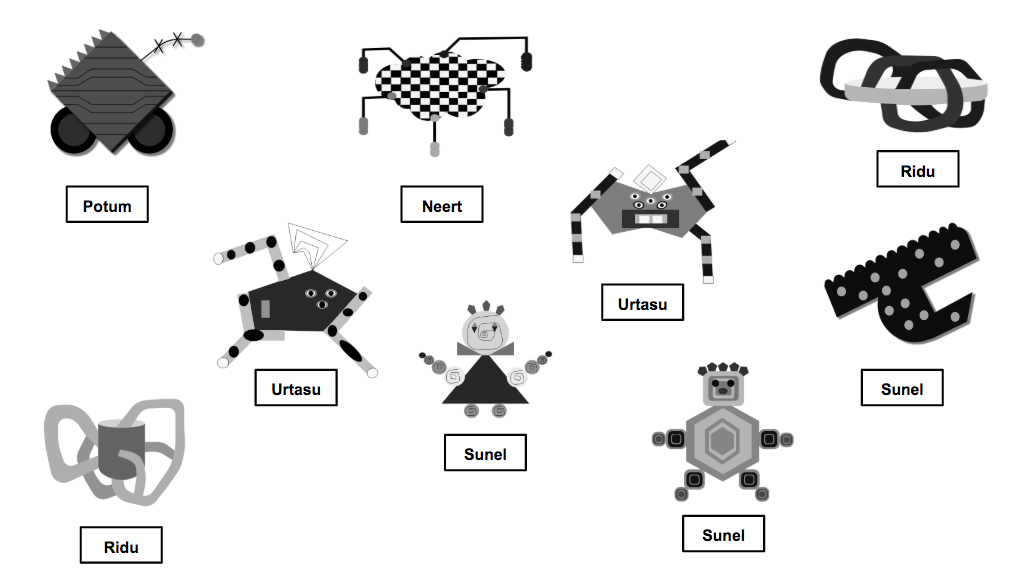
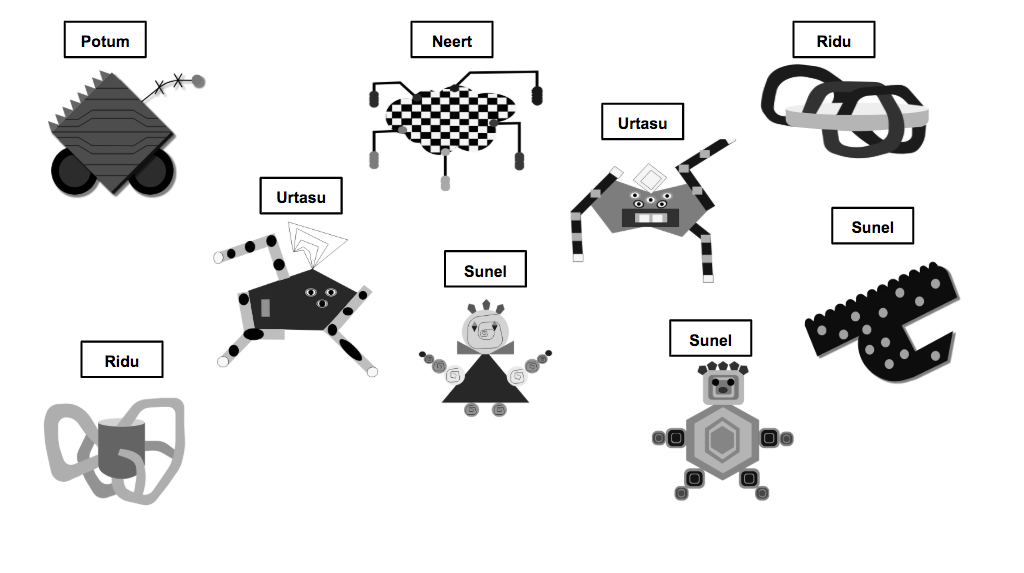
Add files via upload

diff --git a/tax-con.html b/tax-con.html
@@ -46,7 +46,7 @@
     /* Pre-Instructions */
     var instructions = {
       type: "html-keyboard-response",
-      stimulus: "Welcome! You are on a mission to an alien planet and must acquaint yourself with the things you might encounter there. In a moment you will shown a collection of images over two slides. These images depict things from the alien planet. Below each image is the word that the aliens use for that object. You will have a minute for each slide to familiarize yourself with the objects and words. Press any key when you are ready to begin."
+      stimulus: "Welcome! You are on a mission to an alien planet and must acquaint yourself with the things you might encounter there. In a moment you will shown a collection of images over two slides. These images depict things from the alien planet. Above each image is the word that the aliens use for that object. You will have a minute for each slide to familiarize yourself with the objects and words. Press any key when you are ready to begin."
     };
 
     var ran = Math.random();

diff --git a/them-con.html b/them-con.html
@@ -46,7 +46,7 @@
     /* Pre-Instructions */
     var instructions = {
       type: "html-keyboard-response",
-      stimulus: "Welcome! You are on a mission to an alien planet and must acquaint yourself with the things you might encounter there. In a moment you will shown a collection of images over two slides. These images depict things from the alien planet. Below each image is the word that the aliens use for that object. You will have a minute for each slide to familiarize yourself with the objects and words. Press any key when you are ready to begin."
+      stimulus: "Welcome! You are on a mission to an alien planet and must acquaint yourself with the things you might encounter there. In a moment you will shown a collection of images over two slides. These images depict things from the alien planet. Above each image is the word that the aliens use for that object. You will have a minute for each slide to familiarize yourself with the objects and words. Press any key when you are ready to begin."
     };
 
     var ran = Math.random();
